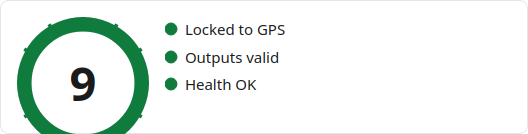
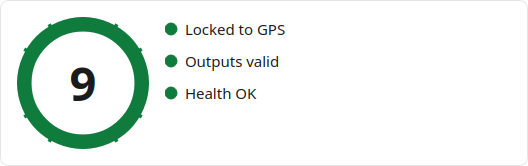
Retake the pictures for the window as it now is, and pin the version in them
The guide's screenshots were rendered before #20, #21, #23, #28 and #30 changed
the main window. Five of the twenty are retaken: the status bar carries the
release, the button row no longer clips at the floor, and compact is a medallion
and two mode lines with no button row and no status bar.

**And the version is pinned, because it had broken the tool's whole claim** — #49.
capture_guide_images.py fixes the clock, the fixtures and the port list so that a
diff in docs/images/how-to-use/ means the interface moved. #23 put the release in
the status bar and #36 made it count commits, so five images changed whenever
anybody reinstalled. Binary churn carrying no information is a directory nobody
reviews, and the fourth spurious diff is the one where the button really did move.

Gated as a property of the tool rather than by running the capture twice: two
runs render forty windows, and a suite people wait for is a suite people skip.

Closes #49.

Changed region(s): [[0.0303, 0.0896, 0.5455, 1.0], [0.303, 0.1194, 0.5455, 0.2687]]

diff --git a/tools/capture_guide_images.py b/tools/capture_guide_images.py
@@ -68,6 +68,7 @@ from smartclock_monitor.services.commands import Then  # noqa: E402
 from smartclock_monitor.services.polling import Reading  # noqa: E402
 from smartclock_monitor.services.preferences import Preferences  # noqa: E402
 from smartclock_monitor.themes.tokens import Theme, palette_for  # noqa: E402
+from smartclock_monitor.views import main_window as main_window_module  # noqa: E402
 from smartclock_monitor.views.connection_dialog import ConnectionDialog  # noqa: E402
 from smartclock_monitor.views.details_window import DetailsWindow  # noqa: E402
 from smartclock_monitor.views.main_window import MainWindow  # noqa: E402
@@ -103,6 +104,18 @@ IDENTITY_ANSWER: Final = "SYMMETRICOM,Z3805A,3625A02931,1.01.03-A"
 
 #: The clock every picture is stamped from. Fixed, so the images do not change every day.
 WHEN: Final = datetime(2026, 8, 27, 20, 52, 20, tzinfo=UTC)
+
+#: The release the pictures show. **Pinned like the clock, and for the same reason** (#49).
+#:
+#: §9.7.5's status bar carries the version, which since #36 is `A.B.C.D` with `D` counting commits
+#: — so without this, five of the twenty images change whenever anybody reinstalls, and a diff in
+#: this directory stops meaning "the interface moved". A version in a screenshot dates the picture,
+#: which is not what these pictures are for.
+SHOWN_VERSION: Final = "v1.0.0"
+
+# Replaced rather than passed in: `set_connection_text` prefixes every message, so pinning it at
+# the source covers every window this tool builds without each call site having to remember.
+main_window_module.version_label = lambda: SHOWN_VERSION
 
 #: What the connection dialog lists. Fixed for the same reason, and a USB adapter rather than a
 #: motherboard port because that is what a receiver is almost always on.

diff --git a/tests/test_guide.py b/tests/test_guide.py
@@ -143,3 +143,36 @@ def test_every_page_has_a_picture_named_after_it() -> None:
         expected = IMAGES / f"page-{slug(page.title)}.png"
         assert expected.is_file(), f"No picture for the {page.title} page at {expected.name}."
     window.close()
+
+
+# ---- The pictures stay comparable ----------------------------------------------------------------
+
+
+def test_the_capture_tool_pins_the_version_it_shows() -> None:
+    """#49: the pictures must change when the interface does, and not otherwise.
+
+    `capture_guide_images.py` pins the clock, the fixtures and the port list so that a diff in
+    `docs/images/how-to-use/` means the interface moved. #23 then put the release into the status
+    bar, and since #36 that number counts commits — so five of the twenty images changed whenever
+    anybody reinstalled, and a directory of binary churn is a directory nobody reviews.
+
+    Checked as a property of the tool rather than by running it twice: two runs render forty
+    windows, and a suite people wait for is a suite people skip.
+    """
+    tool = (Path(__file__).resolve().parent.parent / "tools" / "capture_guide_images.py").read_text(
+        encoding="utf-8"
+    )
+
+    assert "SHOWN_VERSION" in tool, "the version in the status bar is not pinned"
+    assert "version_label" in tool, (
+        "nothing replaces the label the status bar reads, so the installed version leaks into "
+        "the pictures"
+    )
+
+    import re as _re
+
+    pinned = _re.search(r'SHOWN_VERSION:\s*Final\s*=\s*"([^"]+)"', tool)
+    assert pinned, "SHOWN_VERSION is not a literal any more"
+    assert _re.fullmatch(r"v\d+\.\d+\.\d+", pinned.group(1)), (
+        f"{pinned.group(1)!r} is not a fixed release — a moving one is what #49 was about"
+    )
